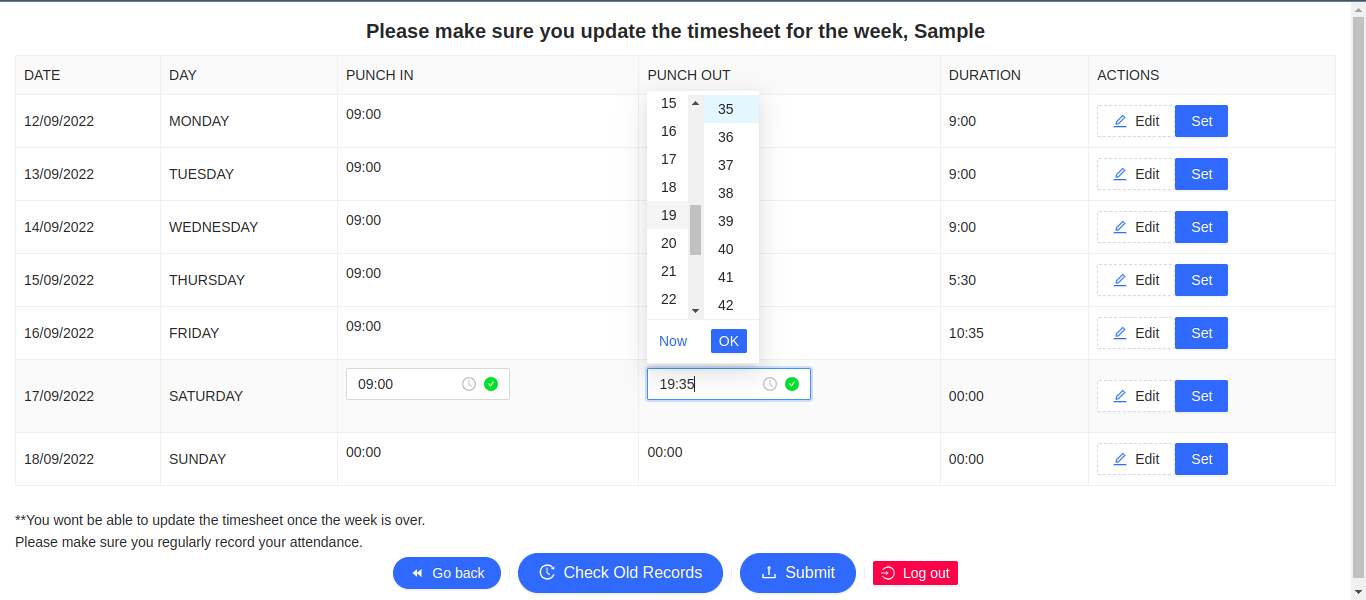
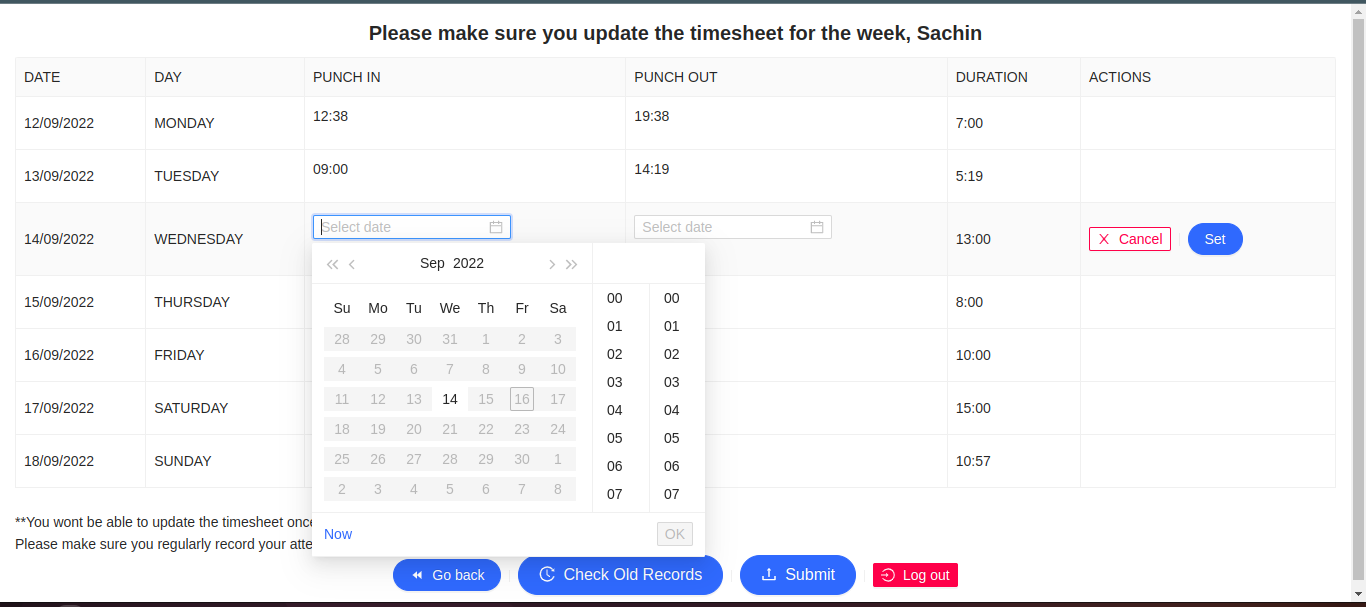
added some edit detailing to timesheet editing page and the screenshot for same was updated

diff --git a/frontend/src/pages/CurrentTimeSheet.tsx b/frontend/src/pages/CurrentTimeSheet.tsx
@@ -158,9 +158,10 @@ const CurrentTimeSheet = () => {
                     >Edit</Button>
                     <Divider type='vertical'></Divider></>
                 }
-                else{
+                else if (editingRow===record.id){
                     return <>
                     <Button
+                    disabled={editingRow!==record.id}
                         danger
                         size='small'
                         type="ghost" onClick={
@@ -171,7 +172,12 @@ const CurrentTimeSheet = () => {
                     >Cancel</Button>
 
                     <Divider type='vertical'></Divider>
-                    <Button shape='round' name="save" type="primary" htmlType="submit">
+                    <Button 
+                    disabled={editingRow!==record.id}
+                    shape='round' 
+                    name="save" 
+                    type="primary" 
+                    htmlType="submit">
                         Set
                     </Button>
                 </>
